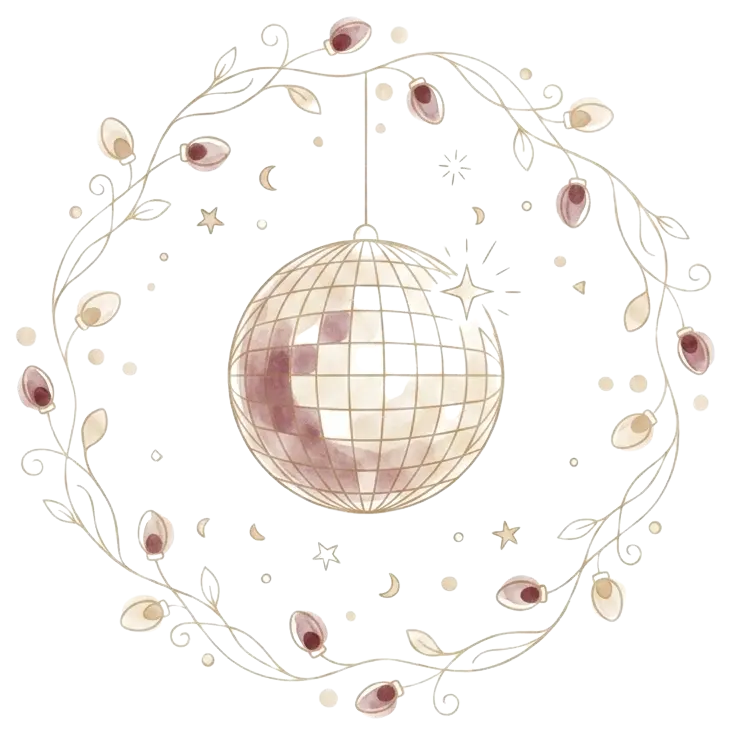
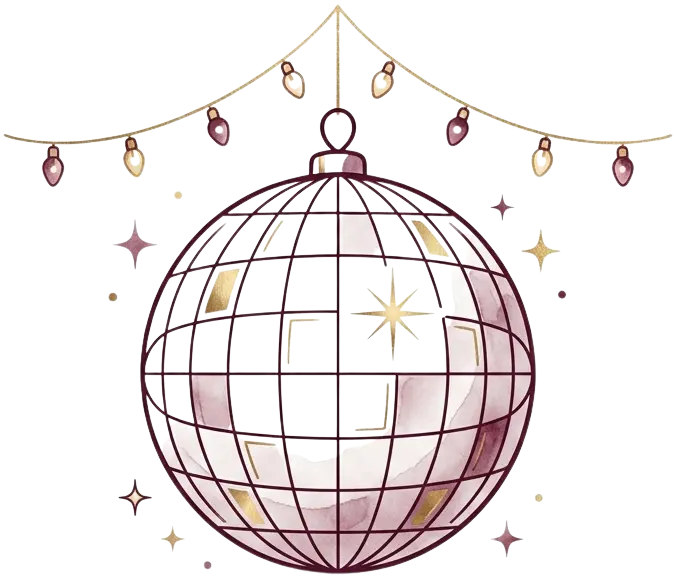
Wedding 4

diff --git a/templates/Wedding_4.html b/templates/Wedding_4.html
@@ -511,7 +511,7 @@
       const additionalInformation = {
         ImageMainCard: `v3/1.webp`,
         ImageLoveStory: `v3/3.webp`,
-        ImageDressCodeUrl: `dresscode_1.webp`,
+        ImageDressCodeUrl: `dresscode_2.webp`,
         ImageEnd: `v3/4.webp`,
       };
 
